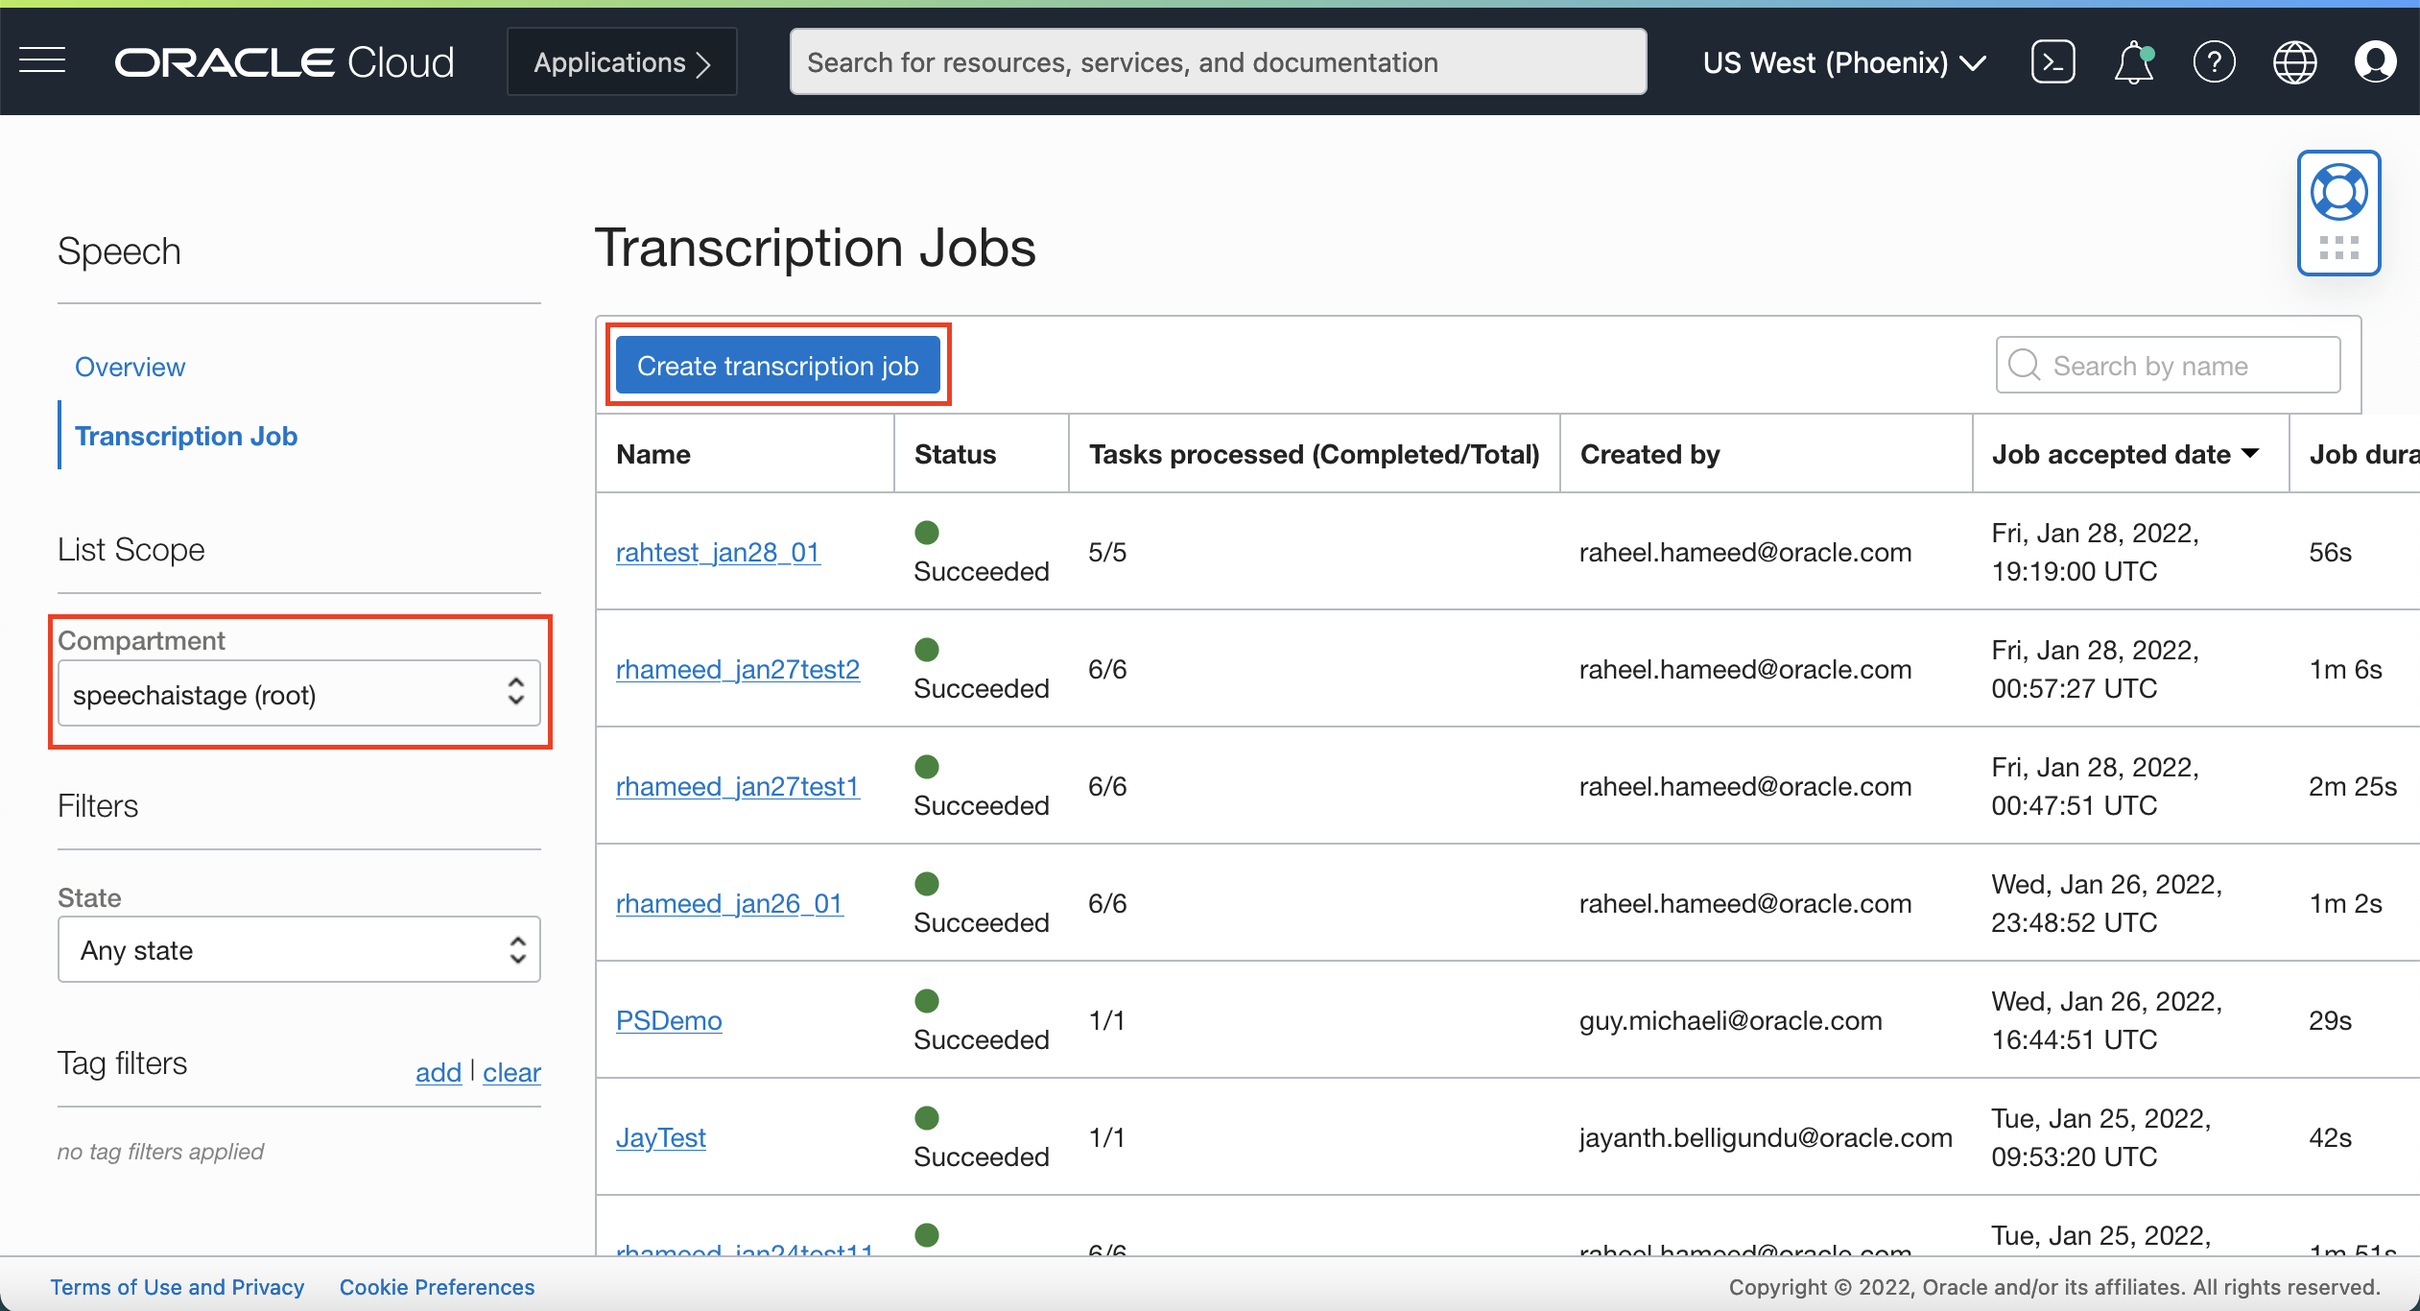
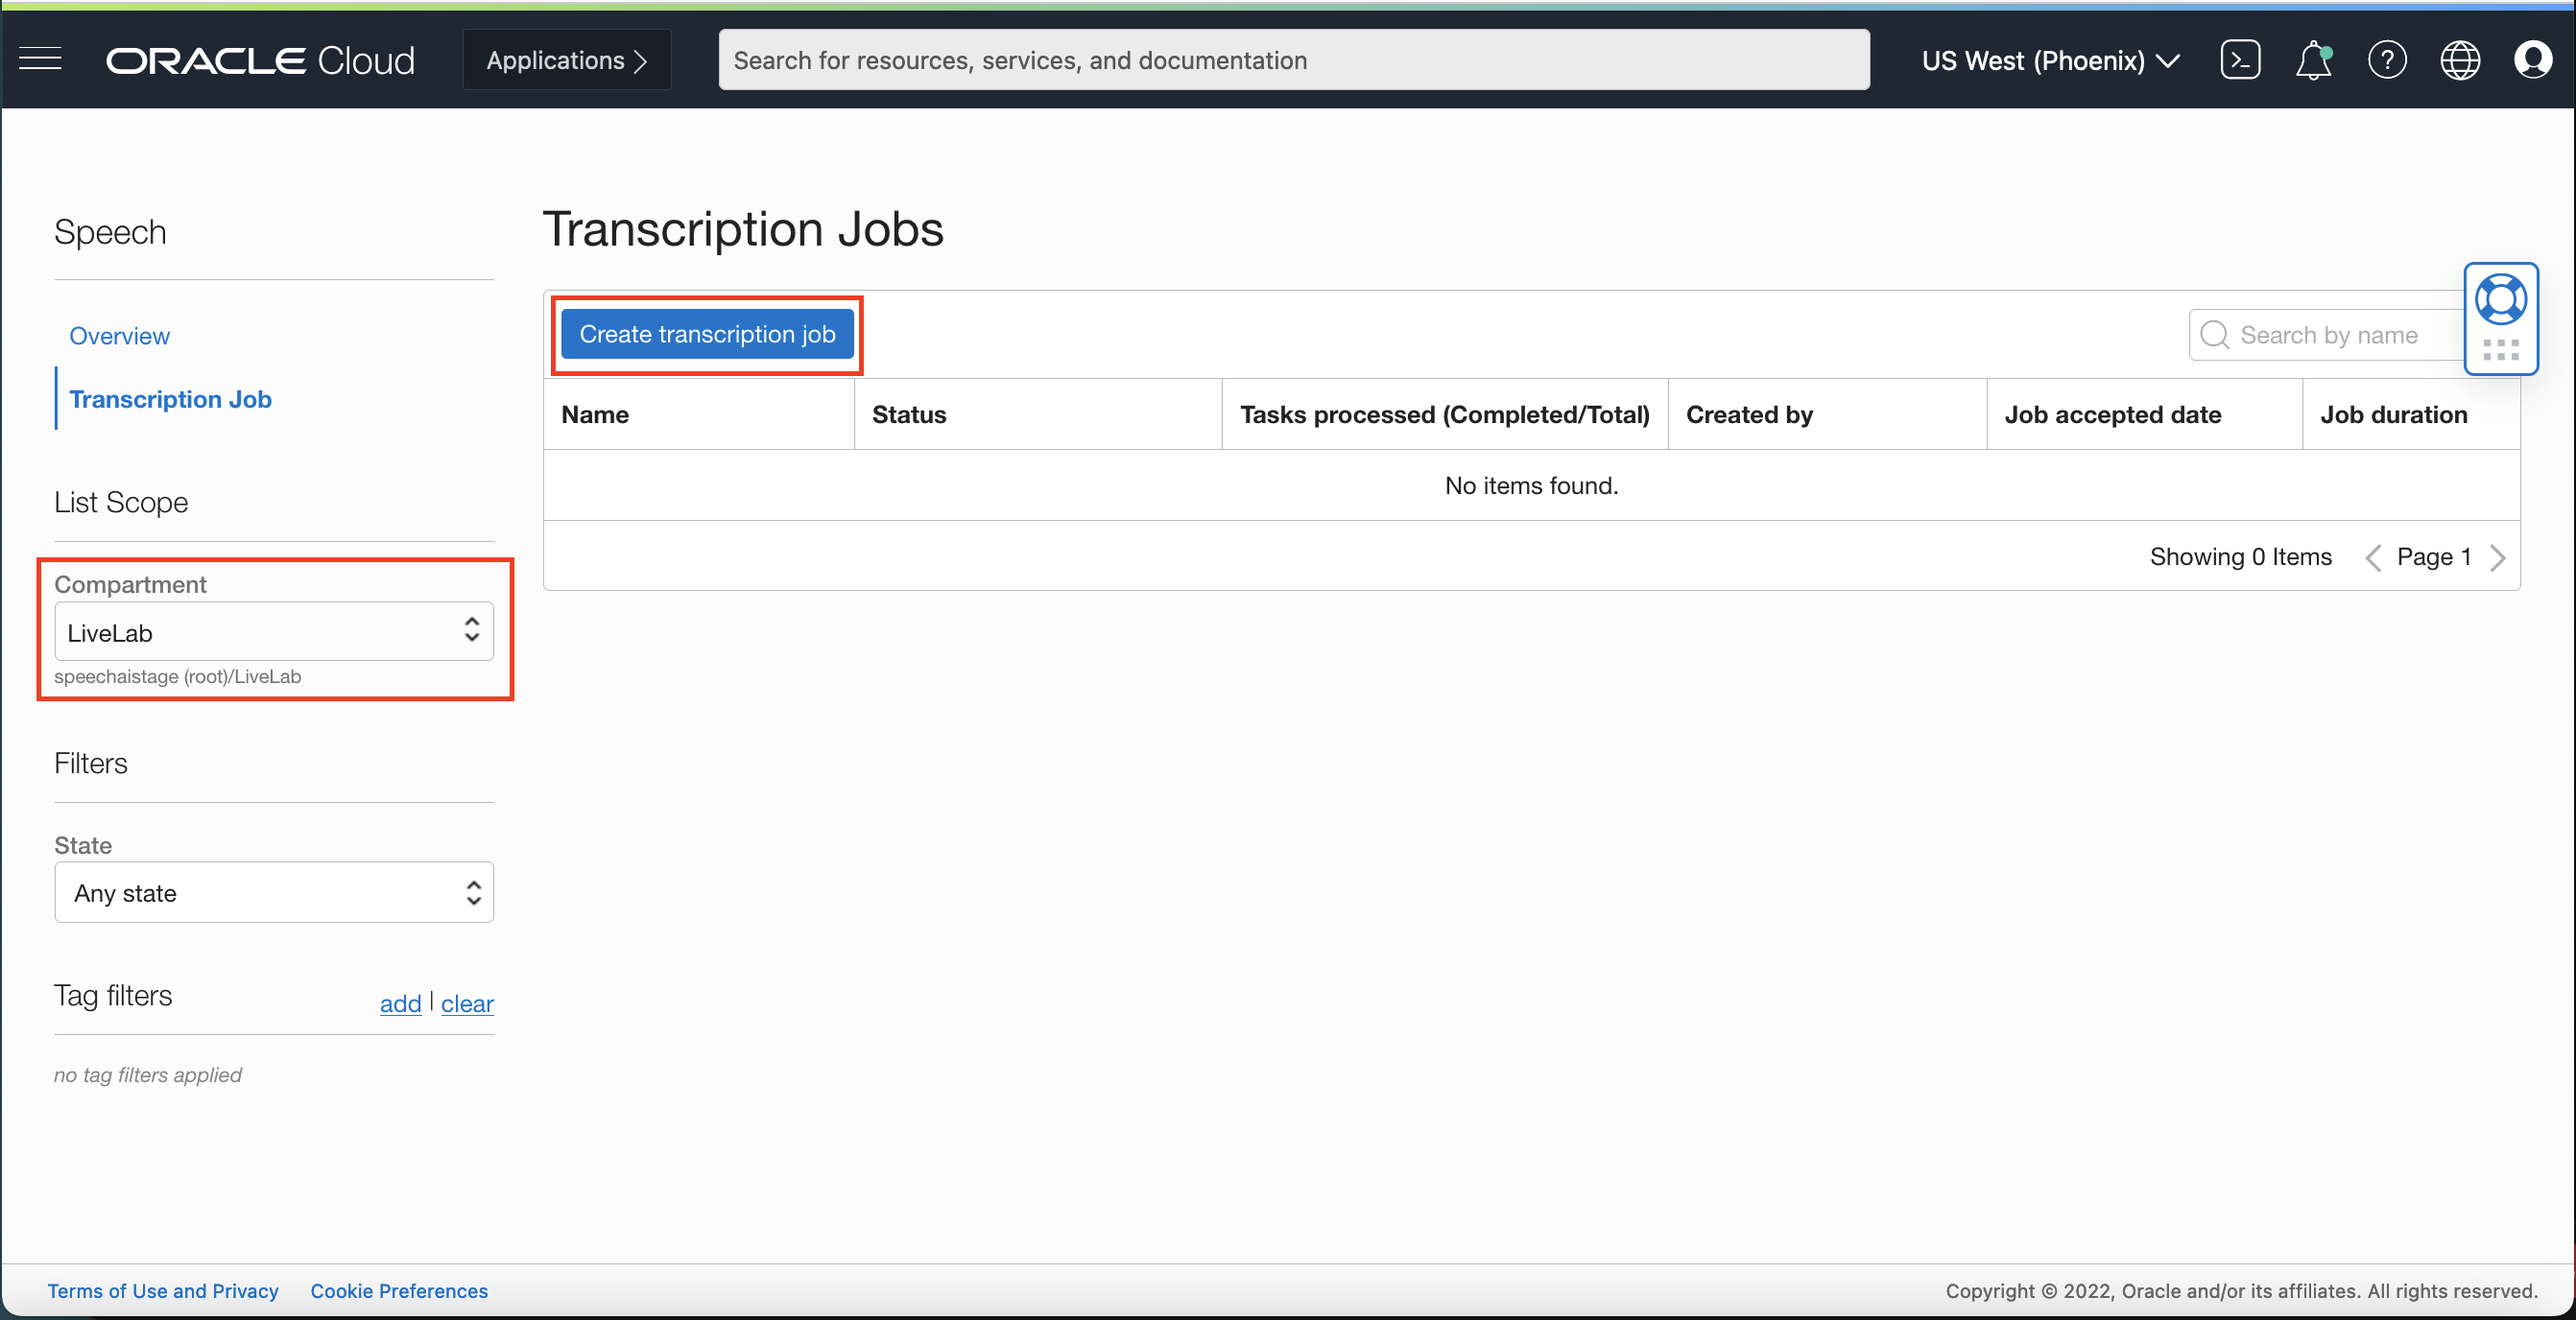
redid screenshots redacted sensitive info

diff --git a/oci-library/oci-hol/oci-artificial-intelligence/ai-speech/transcribe-audio/transcribe-audio.md b/oci-library/oci-hol/oci-artificial-intelligence/ai-speech/transcribe-audio/transcribe-audio.md
@@ -136,7 +136,7 @@ To view the result of the transcription we will navigate to each the job and tas
 ### 1: Navigating to Job Details Page
 
 Click on the name of the job in the list or click "View details" via the three dots kebab menu on the far right of the job
-    ![](./images/navigate-to-job-details-page.png " ")
+    ![](./images/navigate-to-job-details.png " ")
 
 ### 2: Job Details Page
 
